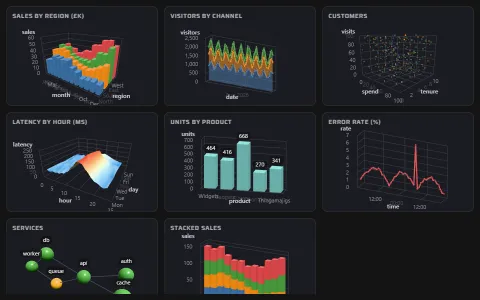
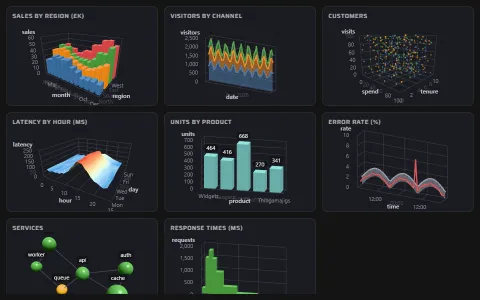
Chart lab and dashboard show x2 and y2: histogram and band tiles in the chart lab (views menu counted from its tiles), the dashboard's error rate over its usual band, and a response-time histogram in place of stacked sales

diff --git a/demos/dashboard.js b/demos/dashboard.js
@@ -8,6 +8,8 @@ const REGIONS = ['North', 'South', 'East', 'West']
 // A dashboard of eight chart tiles, each its own View on its own canvas. Every view draws only
 // when something in it changes, so the page sits idle until you touch a tile - and a tile scrolled
 // out of sight does nothing at all. Each tile starts from a camera set by hand to fill its space.
+// A tile may hold more than one chart over the same ranges: the error rate is drawn over the band
+// it usually keeps within, so the spike stands out of it.
 
 // a perspective camera (fov) or an orthographic one (height), from where and looking at what
 const persp = (position, target) => new PerspectiveCamera({ position, target, fov: 45 })
@@ -26,7 +28,15 @@ export default function run({ canvas, info }) {
   const latency = ['Mon', 'Tue', 'Wed', 'Thu', 'Fri', 'Sat', 'Sun'].flatMap((day, d) => Array.from({ length: 24 }, (_, hour) => ({ day, hour,
     latency: Math.round(40 + 150 * Math.exp(-((hour - 14) ** 2) / 18) * (d < 5 ? 1 : 0.4) + rand() * 20) })))
   const products = ['Widgets', 'Gadgets', 'Gizmos', 'Doohickeys', 'Thingamajigs'].map((product) => ({ product, units: Math.round(200 + rand() * 800) }))
-  const errors = Array.from({ length: 48 }, (_, h) => ({ time: new Date(Date.UTC(2026, 9, 24) + h * 36e5), rate: +(0.5 + Math.abs(Math.sin(h / 5)) * 2 + (h === 31 ? 6 : 0) + rand() * 0.4).toFixed(2) }))
+  // the error rate, and the band it usually keeps within - from the hours before, say
+  const errors = Array.from({ length: 48 }, (_, h) => {
+    const usual = 0.7 + Math.abs(Math.sin(h / 5)) * 2
+    return { time: new Date(Date.UTC(2026, 9, 24) + h * 36e5), rate: +(usual - 0.2 + (h === 31 ? 6 : 0) + rand() * 0.4).toFixed(2),
+      low: +Math.max(0, usual - 0.7).toFixed(2), high: +(usual + 0.8).toFixed(2) }
+  })
+  // response times in bins of ms - narrow where most requests are, wider in the tail
+  const BINS = [0, 50, 100, 150, 200, 300, 500, 800, 1200]
+  const responses = BINS.slice(0, -1).map((from, i) => ({ from, to: BINS[i + 1], requests: Math.round(1800 * Math.exp(-((Math.log(from + 25) - 4.6) ** 2) / 0.9) * (0.85 + rand() * 0.3)) }))
   const net = { nodes: ['api', 'auth', 'db', 'cache', 'queue', 'worker'].map((id, i) => ({ id, status: i === 4 ? 'degraded' : 'healthy' })),
     links: [['api', 'auth'], ['api', 'db'], ['api', 'cache'], ['api', 'queue'], ['queue', 'worker'], ['worker', 'db'], ['auth', 'cache']].map(([source, target]) => ({ source, target })) }
 
@@ -36,9 +46,14 @@ export default function run({ canvas, info }) {
     { title: 'Customers', camera: persp([10.678, 5.659, 11.392], [0.108, 1.984, 0.202]), spec: { mark: 'point', data: scatter, x: 'spend', y: 'visits', z: 'tenure', color: 'segment' } },
     { title: 'Latency by hour (ms)', camera: persp([6.275, 7.959, 13.573], [-0.912, 0.571, 0.887]), spec: { mark: 'surface', data: latency, x: 'hour', z: 'day', y: 'latency', color: { field: 'latency', scale: { scheme: 'heat' } } } },
     { title: 'Units by product', camera: ortho([4.63, 9.183, 22.286], [-0.391, 2.563, 0.258], 10.189), spec: { mark: 'bar', data: products, x: 'product', y: 'units', label: 'units', color: '#76b7b2' } },
-    { title: 'Error rate (%)', camera: ortho([9.689, 11.452, 19.992], [-0.288, 2.884, 0.465], 9.169), spec: { mark: 'line', data: errors, x: 'time', y: 'rate', color: '#e15759' } },
+    // the band behind the line, both on the same y range
+    { title: 'Error rate (%)', camera: ortho([9.689, 11.452, 19.992], [-0.288, 2.884, 0.465], 9.169), spec: [
+      { mark: 'area', data: errors, x: 'time', y: { field: 'high', title: 'usual high', scale: { domain: [0, 9] } }, y2: { field: 'low', title: 'usual low' }, color: '#9aa0ad', frame: false, position: [0, 0, -0.3] },
+      { mark: 'line', data: errors, x: 'time', y: { field: 'rate', scale: { domain: [0, 9] } }, color: '#e15759' },
+    ] },
     { title: 'Services', camera: persp([2.052, 5.793, 6.366], [0.63, 3.729, -0.914]), spec: { mark: 'network', data: net, color: { field: 'status', scale: { domain: ['healthy', 'degraded'], range: ['#59a14f', '#f2b134'] } }, label: 'id' } },
-    { title: 'Stacked sales', camera: ortho([10.178, 9.591, 19.54], [-0.709, 2.793, -0.197], 9.268), spec: { mark: 'bar', data: sales, x: 'month', y: 'sales', color: 'region', stack: true } },
+    // a histogram: bars from x to x2 along a number axis, as wide as their bins
+    { title: 'Response times (ms)', camera: ortho([4.63, 9.183, 22.286], [-0.391, 2.563, 0.258], 10.189), spec: { mark: 'bar', data: responses, x: { field: 'from', title: 'ms', axis: { ticks: [0, 200, 500, 800, 1200] } }, x2: 'to', y: 'requests', color: '#59a14f' } },
   ]
   const views = tiles.map(({ title, camera, spec }) => {
     const tile = document.createElement('section')
@@ -49,7 +64,7 @@ export default function run({ canvas, info }) {
     // the cameras were set in tiles 1.5 times as wide as tall; in any other shape, keep all of
     // that framing in view rather than cutting off the sides
     const view = new View({ canvas: tile.querySelector('canvas'), orbit: true, background: '#1b1c22', camera, framing: { keep: 'both', aspect: 1.5 }, keyboard: true })
-    view.scene.add(chart({ legend: false, ...spec }))
+    for (const one of [spec].flat()) view.scene.add(chart({ legend: false, ...one }))
     return view
   })
   info.textContent = `${views.length} views - each draws only when something in it changes`

diff --git a/demos/chartlab.js b/demos/chartlab.js
@@ -4,7 +4,7 @@ import { random } from './kit.js'
 
 // Every chart mark, and the axis and legend options, each in a tile of its own View: grouped and
 // stacked bars, listed and counted ticks, number keys, formats, a light theme, log and time axes,
-// stacked areas, surfaces, force and tiered networks. Live updates animate every tile to new data
+// stacked areas, a band between two values, a histogram of uneven bins, surfaces, force and tiered networks. Live updates animate every tile to new data
 // each second; more copies of the set put more views on the page - past four they share one WebGL
 // context. The readout counts the frames the views draw and the time they take.
 
@@ -12,6 +12,8 @@ const MONTHS = ['Jan', 'Feb', 'Mar', 'Apr', 'May', 'Jun']
 const REGIONS = ['North', 'South', 'East', 'West']
 const DAYS = ['Mon', 'Tue', 'Wed', 'Thu', 'Fri', 'Sat', 'Sun']
 const PRODUCTS = ['Widgets', 'Gadgets', 'Gizmos', 'Doohickeys', 'Sprockets']
+// response-time bins in ms, narrow where most requests are and wider in the tail
+const BINS = [0, 50, 100, 150, 200, 300, 500, 800, 1200]
 const SERVICES = [['edge', 'gateway'], ['edge', 'cdn'], ['service', 'auth'], ['service', 'orders'], ['service', 'search'],
   ['service', 'billing'], ['data', 'users-db'], ['data', 'orders-db'], ['data', 'cache'], ['data', 'queue']]
 const CALLS = [['gateway', 'auth'], ['gateway', 'orders'], ['gateway', 'search'], ['cdn', 'search'], ['orders', 'billing'],
@@ -31,6 +33,12 @@ export default function run({ canvas, gui, info }) {
       tenure: +(rand() * 10).toFixed(1), score: Math.round(rand() * 100), segment: ['Retail', 'Trade', 'Online'][i % 3], orders: 1 + Math.round(rand() * 20) })),
     traffic: () => ['Organic', 'Paid', 'Referral'].flatMap((channel, c) => Array.from({ length: 45 }, (_, d) => ({ id: `${channel}-${d}`, channel,
       date: new Date(start + d * 864e5), visitors: jitter((900 - c * 260) * (1 + 0.25 * Math.sin(d / 7 * Math.PI * 2)), 0.2) }))),
+    responses: () => BINS.slice(0, -1).map((from, i) => ({ id: from, from, to: BINS[i + 1], requests: jitter(1800 * Math.exp(-((Math.log(from + 25) - 4.6) ** 2) / 0.9), 0.3) })),
+    // a forecast, its band widening as it looks further ahead
+    forecast: () => Array.from({ length: 30 }, (_, d) => {
+      const mid = 120 + 4 * d + 15 * Math.sin(d / 3), spread = jitter(6 + d * 1.4, 0.2)
+      return { id: d, day: d + 1, high: Math.round(mid + spread), low: Math.round(mid - spread) }
+    }),
     growth: () => Array.from({ length: 30 }, (_, d) => ({ id: d, day: d + 1, users: Math.round(40 * 1.22 ** d * (0.85 + rand() * 0.3)) })),
     errors: () => Array.from({ length: 48 }, (_, h) => ({ id: h, time: new Date(start + h * 36e5), rate: +(0.5 + Math.abs(Math.sin(h / 5)) * 2 + rand() * 0.6).toFixed(2) })),
     latency: () => DAYS.flatMap((day, d) => Array.from({ length: 24 }, (_, hour) => ({ id: `${day}-${hour}`, day, hour,
@@ -52,6 +60,8 @@ export default function run({ canvas, gui, info }) {
       spec: { mark: 'bar', x: 'product', y: { field: 'units', axis: { ticks: [0, 250, 500, 750, 1000] } }, color: '#76b7b2', label: 'units' } },
     { title: 'Bar - currency, light theme', data: 'revenue', light: true, camera: 'front',
       spec: { mark: 'bar', x: 'product', y: { field: 'revenue', format: { style: 'currency', currency: 'GBP', notation: 'compact' } }, color: 'product', theme: 'light', legend: false } },
+    { title: 'Bar - histogram, uneven bins (x2)', data: 'responses',
+      spec: { mark: 'bar', x: { field: 'from', title: 'Response time (ms)', axis: { ticks: [0, 200, 500, 800, 1200] } }, x2: 'to', y: { field: 'requests', title: 'Requests' }, color: '#59a14f' } },
     { title: 'Point - 3D, number key with ticks', data: 'customers',
       spec: { mark: 'point', x: { field: 'spend', axis: { ticks: [0, 25, 50, 75, 100] } }, y: 'visits', z: 'tenure',
         color: { field: 'score', title: 'Score' }, legend: { ticks: [0, 25, 50, 75, 100] } } },
@@ -65,6 +75,8 @@ export default function run({ canvas, gui, info }) {
       spec: { mark: 'area', x: 'date', y: 'visitors', color: 'channel', stack: true } },
     { title: 'Area - one series, untitled', data: 'errors', camera: 'front',
       spec: { mark: 'area', x: { field: 'time', axis: { title: '' } }, y: { field: 'rate', title: 'Errors (%)' }, color: '#e15759' } },
+    { title: 'Area - a band, y to y2', data: 'forecast', camera: 'front',
+      spec: { mark: 'area', x: 'day', y: { field: 'high', title: 'Forecast' }, y2: 'low', color: '#9c755f' } },
     { title: 'Surface - heat, counted key', data: 'latency',
       spec: { mark: 'surface', x: 'hour', z: 'day', y: 'latency', color: { field: 'latency', title: 'ms', scale: { scheme: 'heat' } }, legend: { ticks: 4 } } },
     { title: 'Surface - diverging, three stops', data: 'change',
@@ -138,7 +150,8 @@ export default function run({ canvas, gui, info }) {
   show()
 
   gui.add(settings, 'live').name('live updates').onChange(live)
-  gui.add(settings, 'copies', { '14 views': 1, '28 views': 2, '56 views': 4, '112 views': 8 }).name('views').onChange((n) => {
+  // the menu in views, from however many tiles a copy has
+  gui.add(settings, 'copies', Object.fromEntries([1, 2, 4, 8].map((n) => [`${n * TILES.length} views`, n]))).name('views').onChange((n) => {
     settings.copies = Number(n)
     build()
   })
